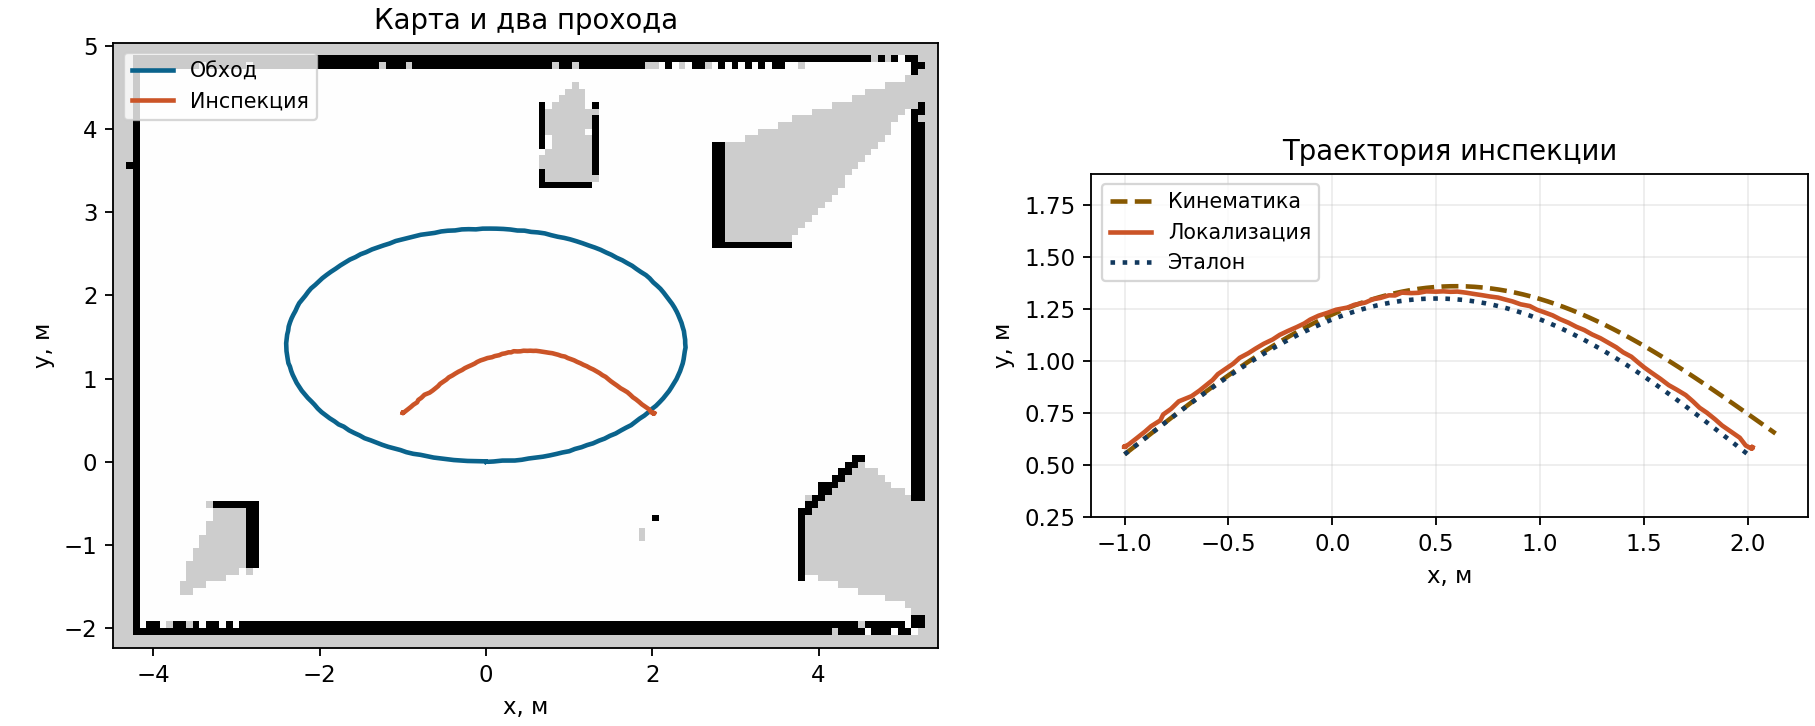
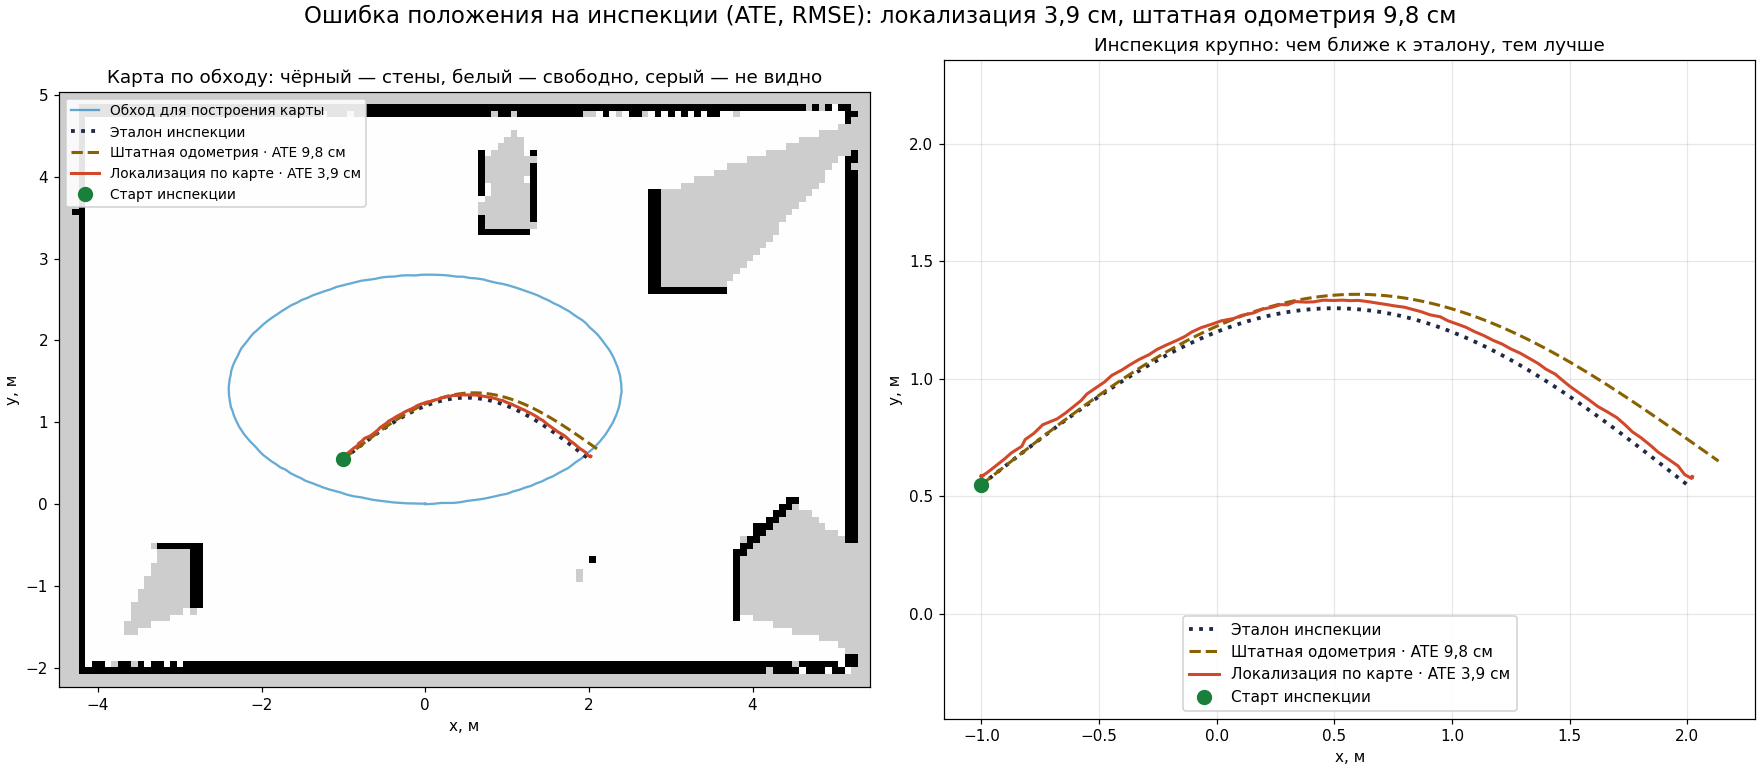
Reproduce the demo comparison from PR 19 on current trajectories

diff --git a/mgts_nav/rehearse.py b/mgts_nav/rehearse.py
@@ -1,14 +1,91 @@
-"""Run both synthetic bags, compare localization to raw odometry, save evidence."""
+"""Прогнать демо на синтетике: карта, локализация, сравнение со штатной одометрией и эталоном.
+
+Результат: comparison.png (наглядное сравнение), map/ и inspection/route.png, metrics.json.
+"""
 import argparse
-from importlib.resources import as_file
 import json
 from pathlib import Path
 import subprocess
+from importlib.resources import as_file
 from tempfile import TemporaryDirectory
 
+import numpy as np
+from matplotlib.backends.backend_agg import FigureCanvasAgg
+from matplotlib.figure import Figure
+
 from .demo import PROFILE, generate
-from .metrics import evaluate, read_csv
 from .solve import module_command
+from .grid import read_map
+from .metrics import evaluate, read_csv
+
+TRUTH, BASELINE, OURS, MAPPING, START = '#1f2a44', '#8a6100', '#d1492a', '#0074b8', '#18803a'
+
+
+def centimetres(value):
+    return 'нет данных' if value is None else f'{100 * value:.1f} см'.replace('.', ',')
+
+
+def comparison(map_yaml, output, mapping, truth, baseline, inspection, metrics):
+    """Map with both inspection estimates and the truth, plus a close-up of the inspection."""
+    pixels, meta, _ = read_map(map_yaml)
+    h, w = pixels.shape
+    x0, y0 = meta['origin'][:2]
+    extent = [x0, x0 + w * meta['resolution'], y0, y0 + h * meta['resolution']]
+
+    def xy(poses):
+        return np.array([(p.x, p.y) for p in poses]).T
+
+    ate_ours = centimetres(metrics['inspection']['ate_xy_rmse_m'])
+    ate_odom = centimetres(metrics['baseline']['ate_xy_rmse_m'])
+    figure = Figure(figsize=(16, 7), dpi=110, layout='constrained')
+    FigureCanvasAgg(figure)
+    left, right = figure.subplots(1, 2)
+    left.imshow(pixels, cmap='gray', vmin=0, vmax=255, extent=extent, interpolation='nearest')
+    left.plot(*xy(mapping), color=MAPPING, lw=1.5, alpha=.6, label='Обход для построения карты')
+    for axis in (left, right):
+        axis.plot(*xy(truth), color=TRUTH, lw=2.5, ls=':', label='Эталон инспекции')
+        axis.plot(*xy(baseline), color=BASELINE, lw=2, ls='--', label=f'Штатная одометрия · ATE {ate_odom}')
+        axis.plot(*xy(inspection), color=OURS, lw=2, label=f'Локализация по карте · ATE {ate_ours}')
+        axis.plot(truth[0].x, truth[0].y, 'o', color=START, ms=9, label='Старт инспекции', zorder=5)
+        axis.set_aspect('equal')
+        axis.set_xlabel('x, м')
+        axis.set_ylabel('y, м')
+    left.set_title('Карта по обходу: чёрный — стены, белый — свободно, серый — не видно')
+    left.legend(loc='upper left', fontsize=9, framealpha=.9)
+    right.set_title('Инспекция крупно: чем ближе к эталону, тем лучше')
+    right.set_aspect('equal', adjustable='datalim')  # fill the panel, leaving room for the legend
+    right.grid(alpha=.3)
+    right.legend(loc='lower center', fontsize=10, framealpha=.9)
+    figure.suptitle(f'Ошибка положения на инспекции (ATE, RMSE): локализация {ate_ours}, '
+                    f'штатная одометрия {ate_odom}', fontsize=15)
+    figure.savefig(output)
+
+
+def report(output, metrics):
+    ours, odom, mapping = metrics['inspection'], metrics['baseline'], metrics['mapping']
+    lines = [
+        f'Готово: {output}',
+        f"Локализация по карте: ATE {centimetres(ours['ate_xy_rmse_m'])}, "
+        f"покрыто {ours['matched_samples']} из {ours['truth_samples']} меток эталона ({ours['coverage']:.0%})",
+        f"Штатная одометрия:    ATE {centimetres(odom['ate_xy_rmse_m'])}, "
+        f"покрыто {odom['matched_samples']} из {odom['truth_samples']} ({odom['coverage']:.0%})",
+        f"Траектория обхода при построении карты: ATE {centimetres(mapping['ate_xy_rmse_m'])}",
+    ]
+    if ours['ate_xy_rmse_m'] and odom['ate_xy_rmse_m']:
+        ratio = odom['ate_xy_rmse_m'] / ours['ate_xy_rmse_m']
+        times = f'{max(ratio, 1 / ratio):.1f}'
+        if times == '1.0':
+            lines.append('Ошибка локализации примерно такая же, как у одометрии.')
+        elif ratio > 1:
+            lines.append(f"Ошибка локализации в {times.replace('.', ',')} раза меньше, чем у одометрии.")
+        else:
+            lines.append(f"Ошибка локализации больше, чем у одометрии, в {times.replace('.', ',')} раза.")
+    lines += ['Посмотреть:',
+              f'  сравнение с эталоном  {output / "comparison.png"}',
+              f'  маршрут инспекции     {output / "inspection" / "route.png"}',
+              f'  карта и обход         {output / "map" / "route.png"}',
+              f'  все метрики (JSON)    {output / "metrics.json"}']
+    return '\n'.join(lines)
 
 
 def run(output):
@@ -21,27 +98,30 @@ def run(output):
         stage.mkdir()
         data = stage / 'data'
         generate(data)
+
         def nav(*args):
-            subprocess.run(module_command('mgts_nav', *args), check=True)
+            # Each step saves its summary.json; its JSON on stdout would only bury the report.
+            subprocess.run(module_command('mgts_nav', *args), check=True,
+                           stdout=subprocess.DEVNULL)
         nav('map', data / 'mapping', '--config', profile, '--out', stage / 'map')
         options = [data / 'inspection', '--config', profile, '--initial-file', data / 'initial_pose.json']
         nav('baseline', *options, '--out', stage / 'baseline')
         nav('localize', *options, '--map', stage / 'map' / 'map.yaml', '--out', stage / 'inspection')
         truth = read_csv(data / 'inspection_truth.csv')
-        metrics = {name: evaluate(read_csv(stage / name / 'trajectory.csv'), truth)
-                   for name in ('baseline', 'inspection')}
-        metrics['mapping'] = evaluate(read_csv(stage / 'map' / 'trajectory.csv'),
-                                      read_csv(data / 'mapping_truth.csv'))
-        report = json.dumps(metrics, indent=2, allow_nan=False)
-        (stage / 'metrics.json').write_text(report, encoding='utf-8')
+        tracks = {name: read_csv(stage / name / 'trajectory.csv') for name in ('baseline', 'inspection', 'map')}
+        metrics = {name: evaluate(tracks[name], truth) for name in ('baseline', 'inspection')}
+        metrics['mapping'] = evaluate(tracks['map'], read_csv(data / 'mapping_truth.csv'))
+        (stage / 'metrics.json').write_text(json.dumps(metrics, indent=2, allow_nan=False), encoding='utf-8')
+        comparison(stage / 'map' / 'map.yaml', stage / 'comparison.png', tracks['map'], truth,
+                   tracks['baseline'], tracks['inspection'], metrics)
         stage.rename(output)
-    print(report)
+    print(report(output, metrics))
     return metrics
 
 
 if __name__ == '__main__':
-    parser = argparse.ArgumentParser(description=__doc__)
-    parser.add_argument('out', type=Path)
+    parser = argparse.ArgumentParser(description=__doc__, formatter_class=argparse.RawDescriptionHelpFormatter)
+    parser.add_argument('out', type=Path, help='новая папка для результатов, например out/my-first-demo')
     try:
         run(parser.parse_args().out)
     except KeyboardInterrupt:

diff --git a/tests/test_rehearsal.py b/tests/test_rehearsal.py
@@ -1,10 +1,12 @@
 """Check the real CLI, output frames, map export, and withheld inspection truth."""
 import json
 
-from mgts_nav.rehearse import run
+from PIL import Image
+
+from mgts_nav.rehearse import report, run
 
 
-def test_rehearsal(tmp_path):
+def test_rehearsal(tmp_path, capsys):
     out = tmp_path / 'run'
     metrics = run(out)
     assert metrics['inspection']['coverage'] == 1
@@ -12,3 +14,22 @@ def test_rehearsal(tmp_path):
     assert metrics['mapping']['ate_xy_rmse_m'] < 0.12
     assert (out / 'map' / 'map.pgm').stat().st_size > 100
     assert json.loads((out / 'inspection' / 'summary.json').read_text())['status']['matched'] >= 95
+    # Pictures must be readable without zooming in.
+    with Image.open(out / 'comparison.png') as image:
+        assert image.size == (1760, 770)
+        image.verify()
+    report = capsys.readouterr().out
+    assert f"ATE {100 * metrics['inspection']['ate_xy_rmse_m']:.1f} см".replace('.', ',') in report
+    assert str(out / 'comparison.png') in report and str(out / 'metrics.json') in report
+    assert '{' not in report
+
+
+def test_report_states_which_error_is_smaller(tmp_path):
+    def summary(ours, odom):
+        side = dict(matched_samples=100, truth_samples=100, coverage=1.)
+        return dict(inspection=dict(side, ate_xy_rmse_m=ours), baseline=dict(side, ate_xy_rmse_m=odom),
+                    mapping=dict(ate_xy_rmse_m=.05))
+    assert 'в 2,5 раза меньше, чем у одометрии' in report(tmp_path, summary(.04, .1))
+    worse = report(tmp_path, summary(.1, .04))
+    assert 'больше, чем у одометрии, в 2,5 раза' in worse and 'меньше' not in worse
+    assert 'примерно такая же' in report(tmp_path, summary(.1, .102))

diff --git a/docs/demo-results.md b/docs/demo-results.md
@@ -4,6 +4,8 @@
 
 ![Слева карта с маршрутами обхода и инспекции. Справа оценка, кинематика и эталон инспекции в общей системе координат.](demo-results.png)
 
+Из корня MGTS запустите `.\.venv-mgts\Scripts\python.exe -X utf8 -m mgts_nav.rehearse out/my-first-demo` в новый каталог. Файл `comparison.png` воспроизводит рисунок выше по карте и четырём траекториям. Значения в легенде округлены до десятых долей сантиметра. Автор сравнения и текстовой сводки — [M1hairu, PR №19](https://github.com/Ivana-banana/MGTS/pull/19).
+
 ## Условия и результаты
 
 Генератор моделирует плоский офис, шум дальности, пропуски отдельных лучей и движущийся цилиндр. Обход длится 20 с и включает 200 сканов. Отдельная инспекция длится 10 с и включает 100 сканов. Обход начинается в начале координат. Инспекция начинается в точке (−1,00 м, 0,55 м) с курсом 0,48 рад. Кинематика и локализация получили одинаковую стартовую позу. Эталонные CSV использованы для оценки.
